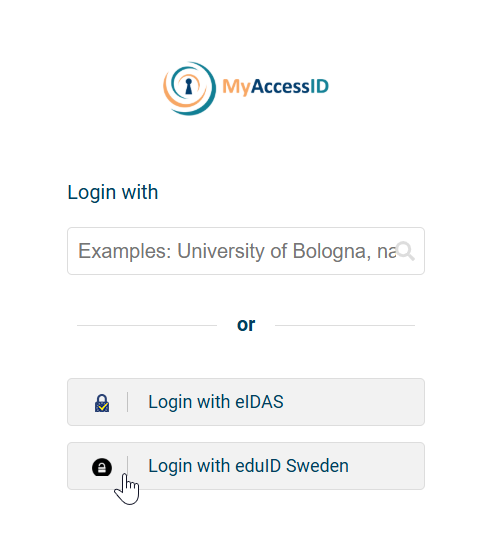
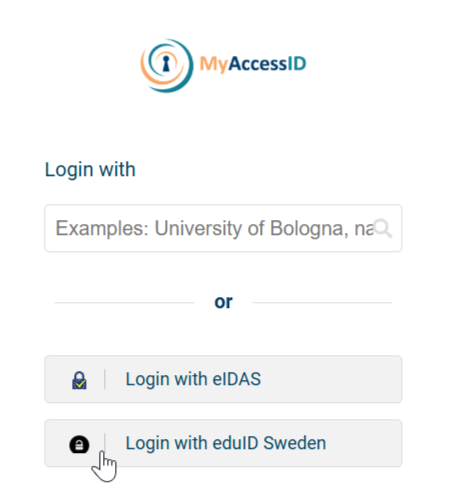
resizing two uneven screenshots

diff --git a/docs/user_guides/myaccessid_registration.md b/docs/user_guides/myaccessid_registration.md
@@ -42,8 +42,8 @@ If you did not find your flag, please proceed to Option 3 below.
 
 For users who do not have  an academic identity or supported eIDAS digital identity, it is possible to register a new digital identity with eduID Sweden by selecting this option on the MyAccessID login page. Click on "Add another institution" to see this option.<br>
 
-![eduID login location](../assets/eduID_login_option_location.png){ width="475"}
-![eduID login button](../assets/eduID_login_button.png){ width="450"}
+![eduID login location](../assets/eduID_login_option_location.png)
+![eduID login button](../assets/eduID_login_button.png)
 
 Then you're forwarded to the eduID Sweden login page where you can log in with an existing account or create a new one.
 
